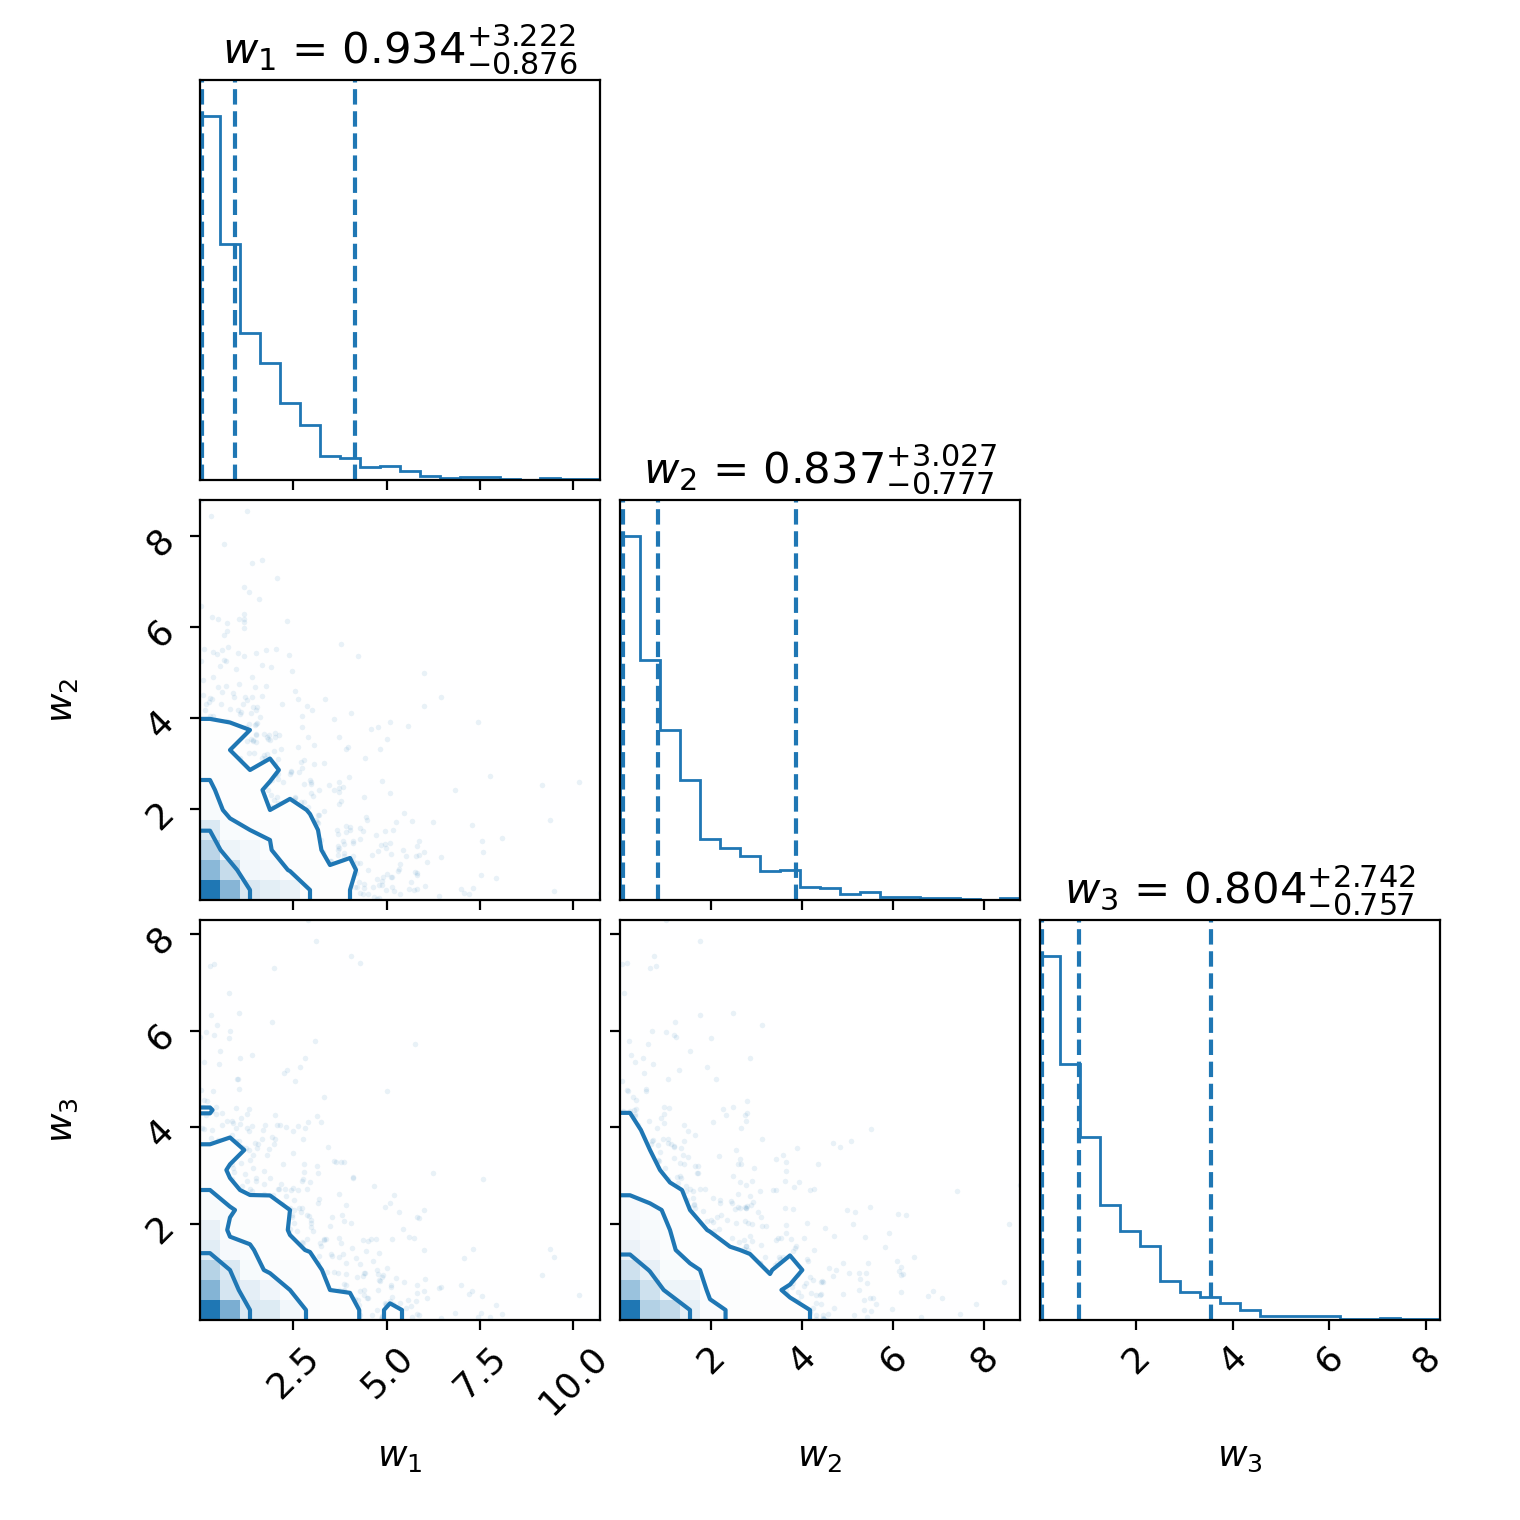
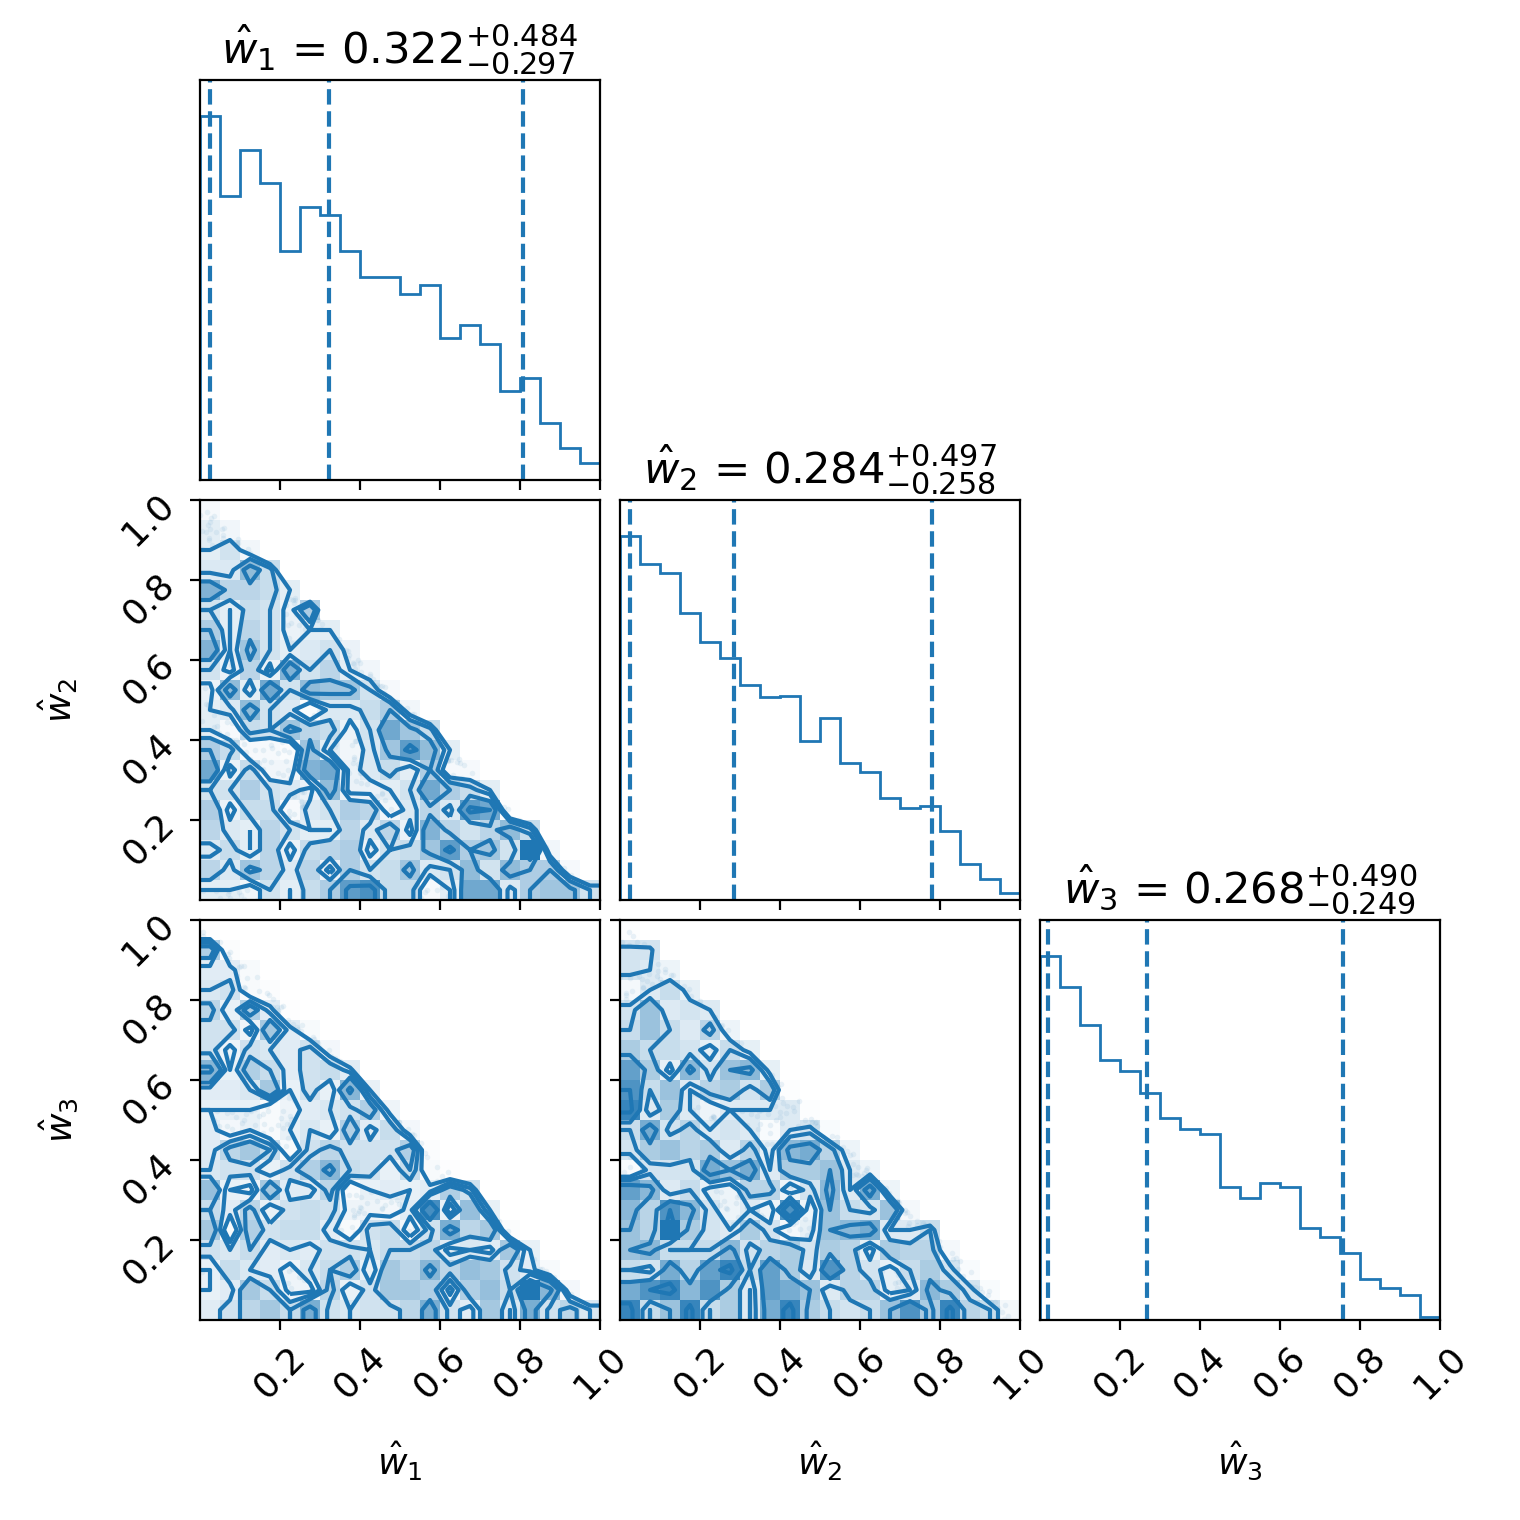
Case study: corner plot on normalized weight shares (paper Figure 5 convention)
Normalize each posterior draw to shares w_i/sum(w) before corner plotting,
matching DOR-10's Figure 5 ([0,1] axes, simplex support). The remaining
difference vs the old figure is substantive and expected: the all-pairs
composite likelihood over-concentrated the share posterior via the three
long-gap pairs; the adjacent-only T=1 posterior is close to uniform on the
simplex (3 observations vs 33 parameters).

diff --git a/case_study_lea.py b/case_study_lea.py
@@ -307,12 +307,20 @@ def plot_utilities(transformer, w_map, samples, out_path):
 
 
 def plot_corner(samples, n_params, out_path):
-    """Corner plot of the T=1 posterior weights (w1, w2, w3)."""
+    """
+    Corner plot of the T=1 posterior weights, NORMALIZED per draw to shares
+    hat{w}_i = w_i / sum_j w_j (the convention of the paper's Figure 5: axes in
+    [0,1], bivariate support inside the simplex triangle).  The overall scale
+    of w is shared with the thresholds and is not what the figure is meant to
+    show; the shares are the ranking-relevant quantity.
+    """
     w = samples[:, :n_params]
-    labels = [r"$w_1$", r"$w_2$", r"$w_3$"]
+    w = w / w.sum(axis=1, keepdims=True)
+    labels = [r"$\hat{w}_1$", r"$\hat{w}_2$", r"$\hat{w}_3$"]
     if HAVE_CORNER:
         fig = corner_pkg.corner(w, labels=labels, show_titles=True,
                                 quantiles=[0.05, 0.5, 0.95],
+                                range=[(0, 1)] * w.shape[1],
                                 title_fmt=".3f", color=C_BAYES_FILL)
         fig.savefig(out_path, dpi=200)
         plt.close(fig)
